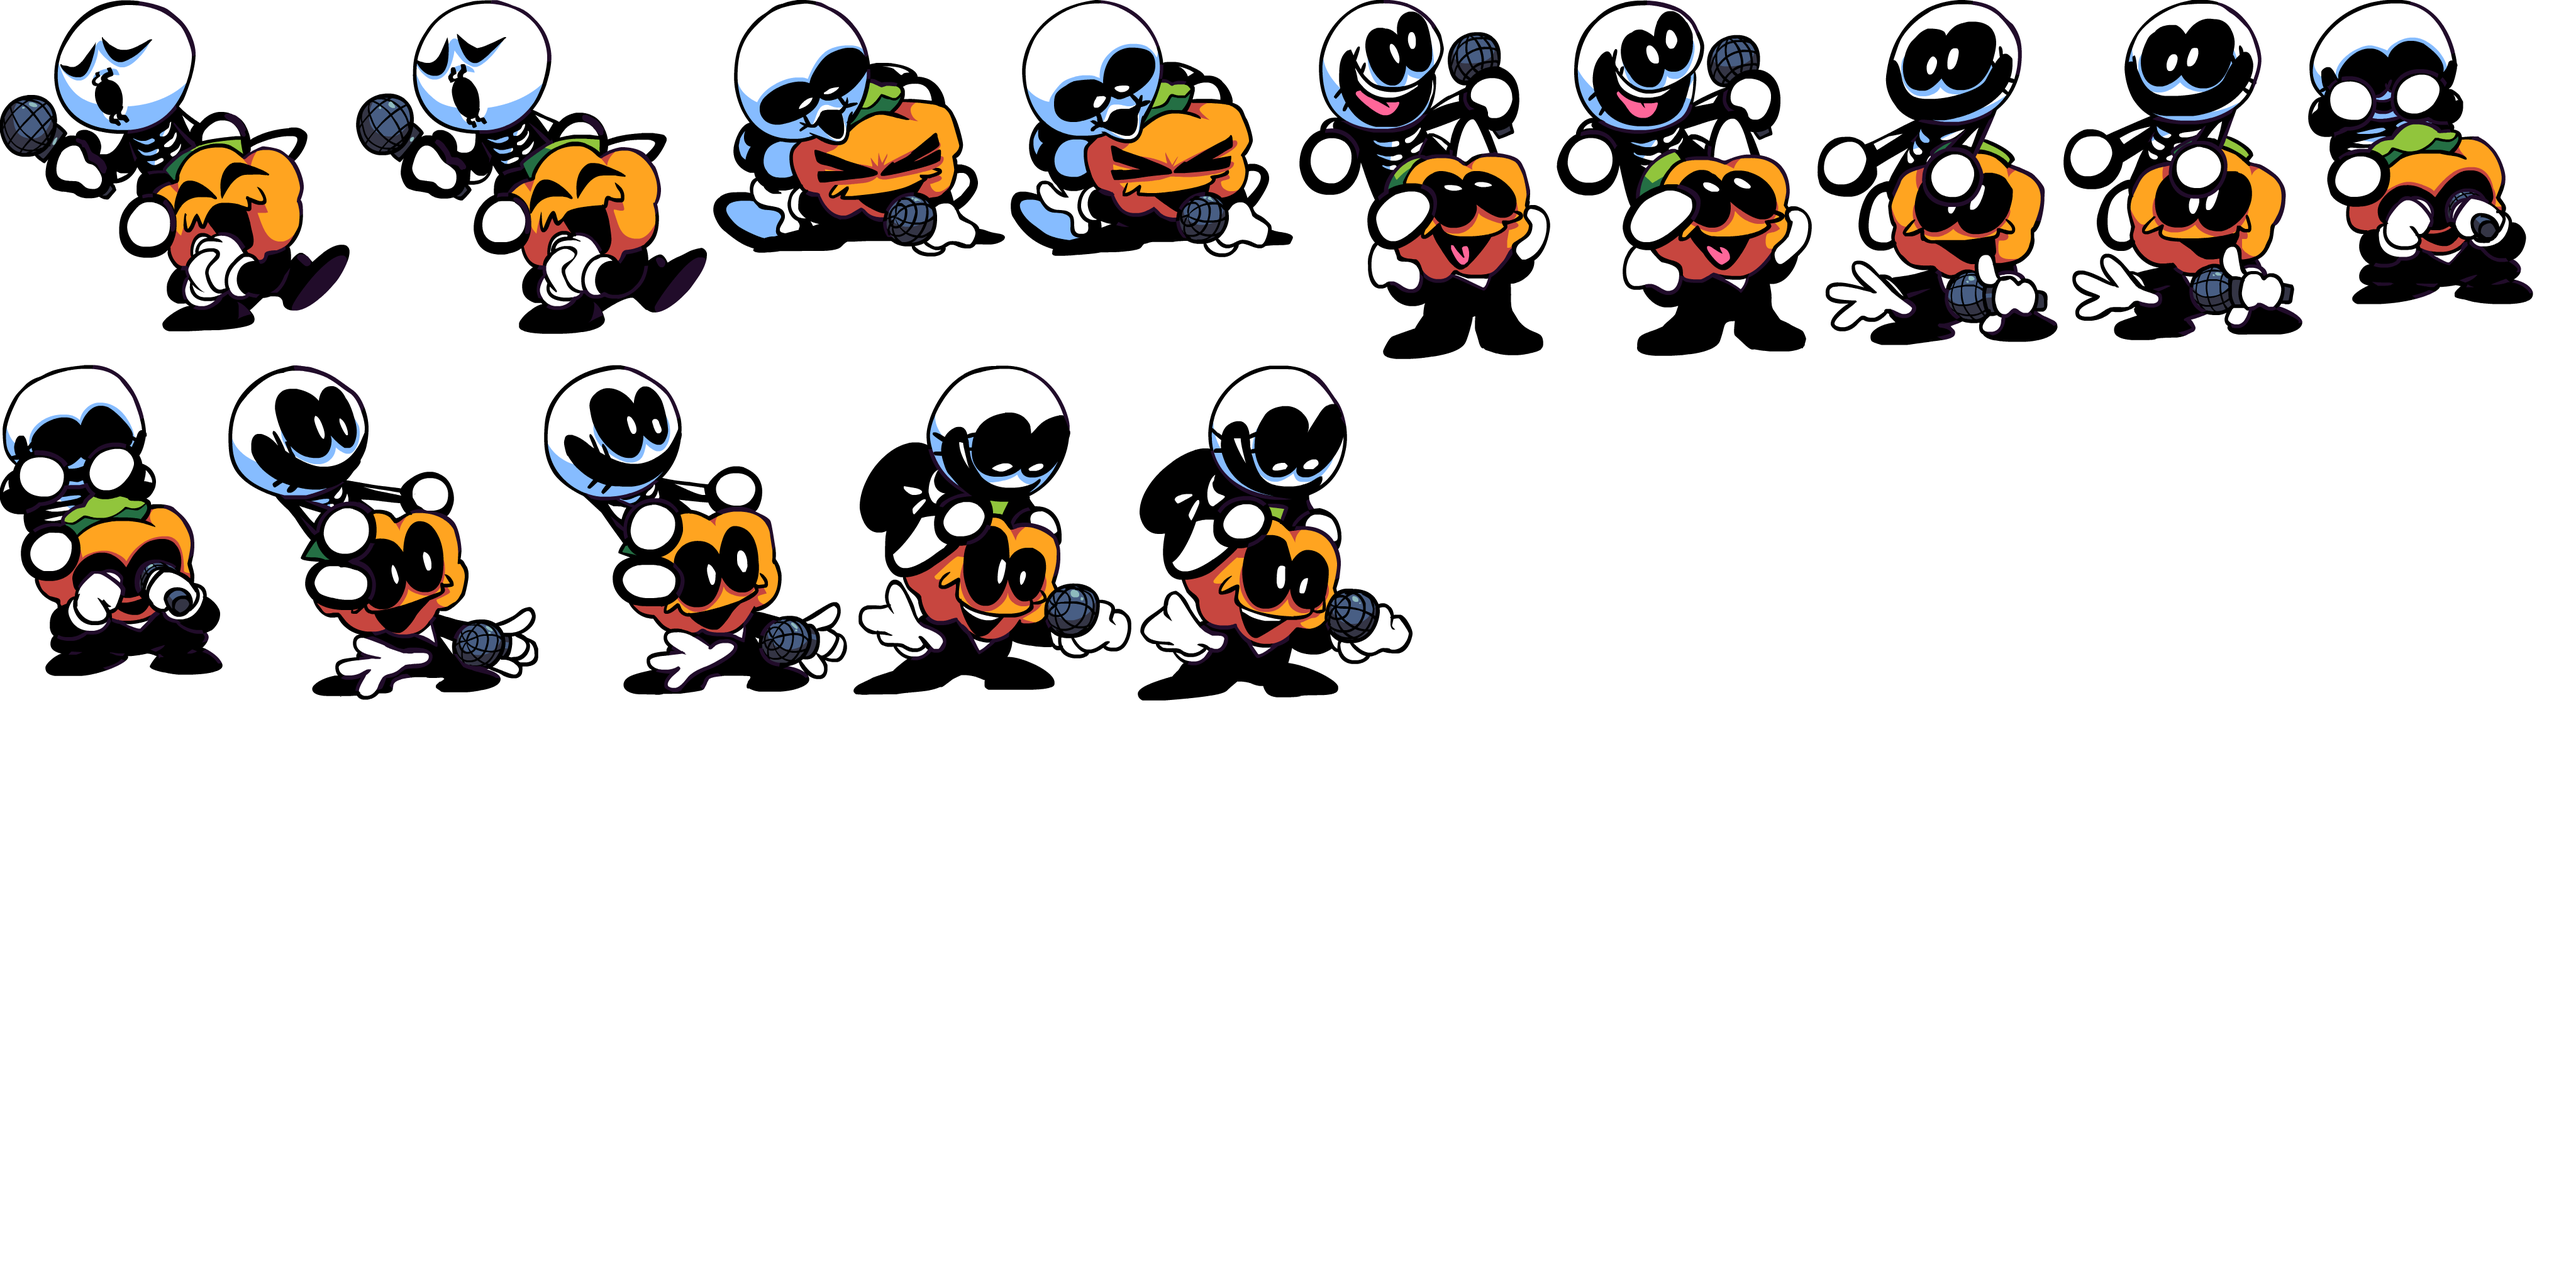
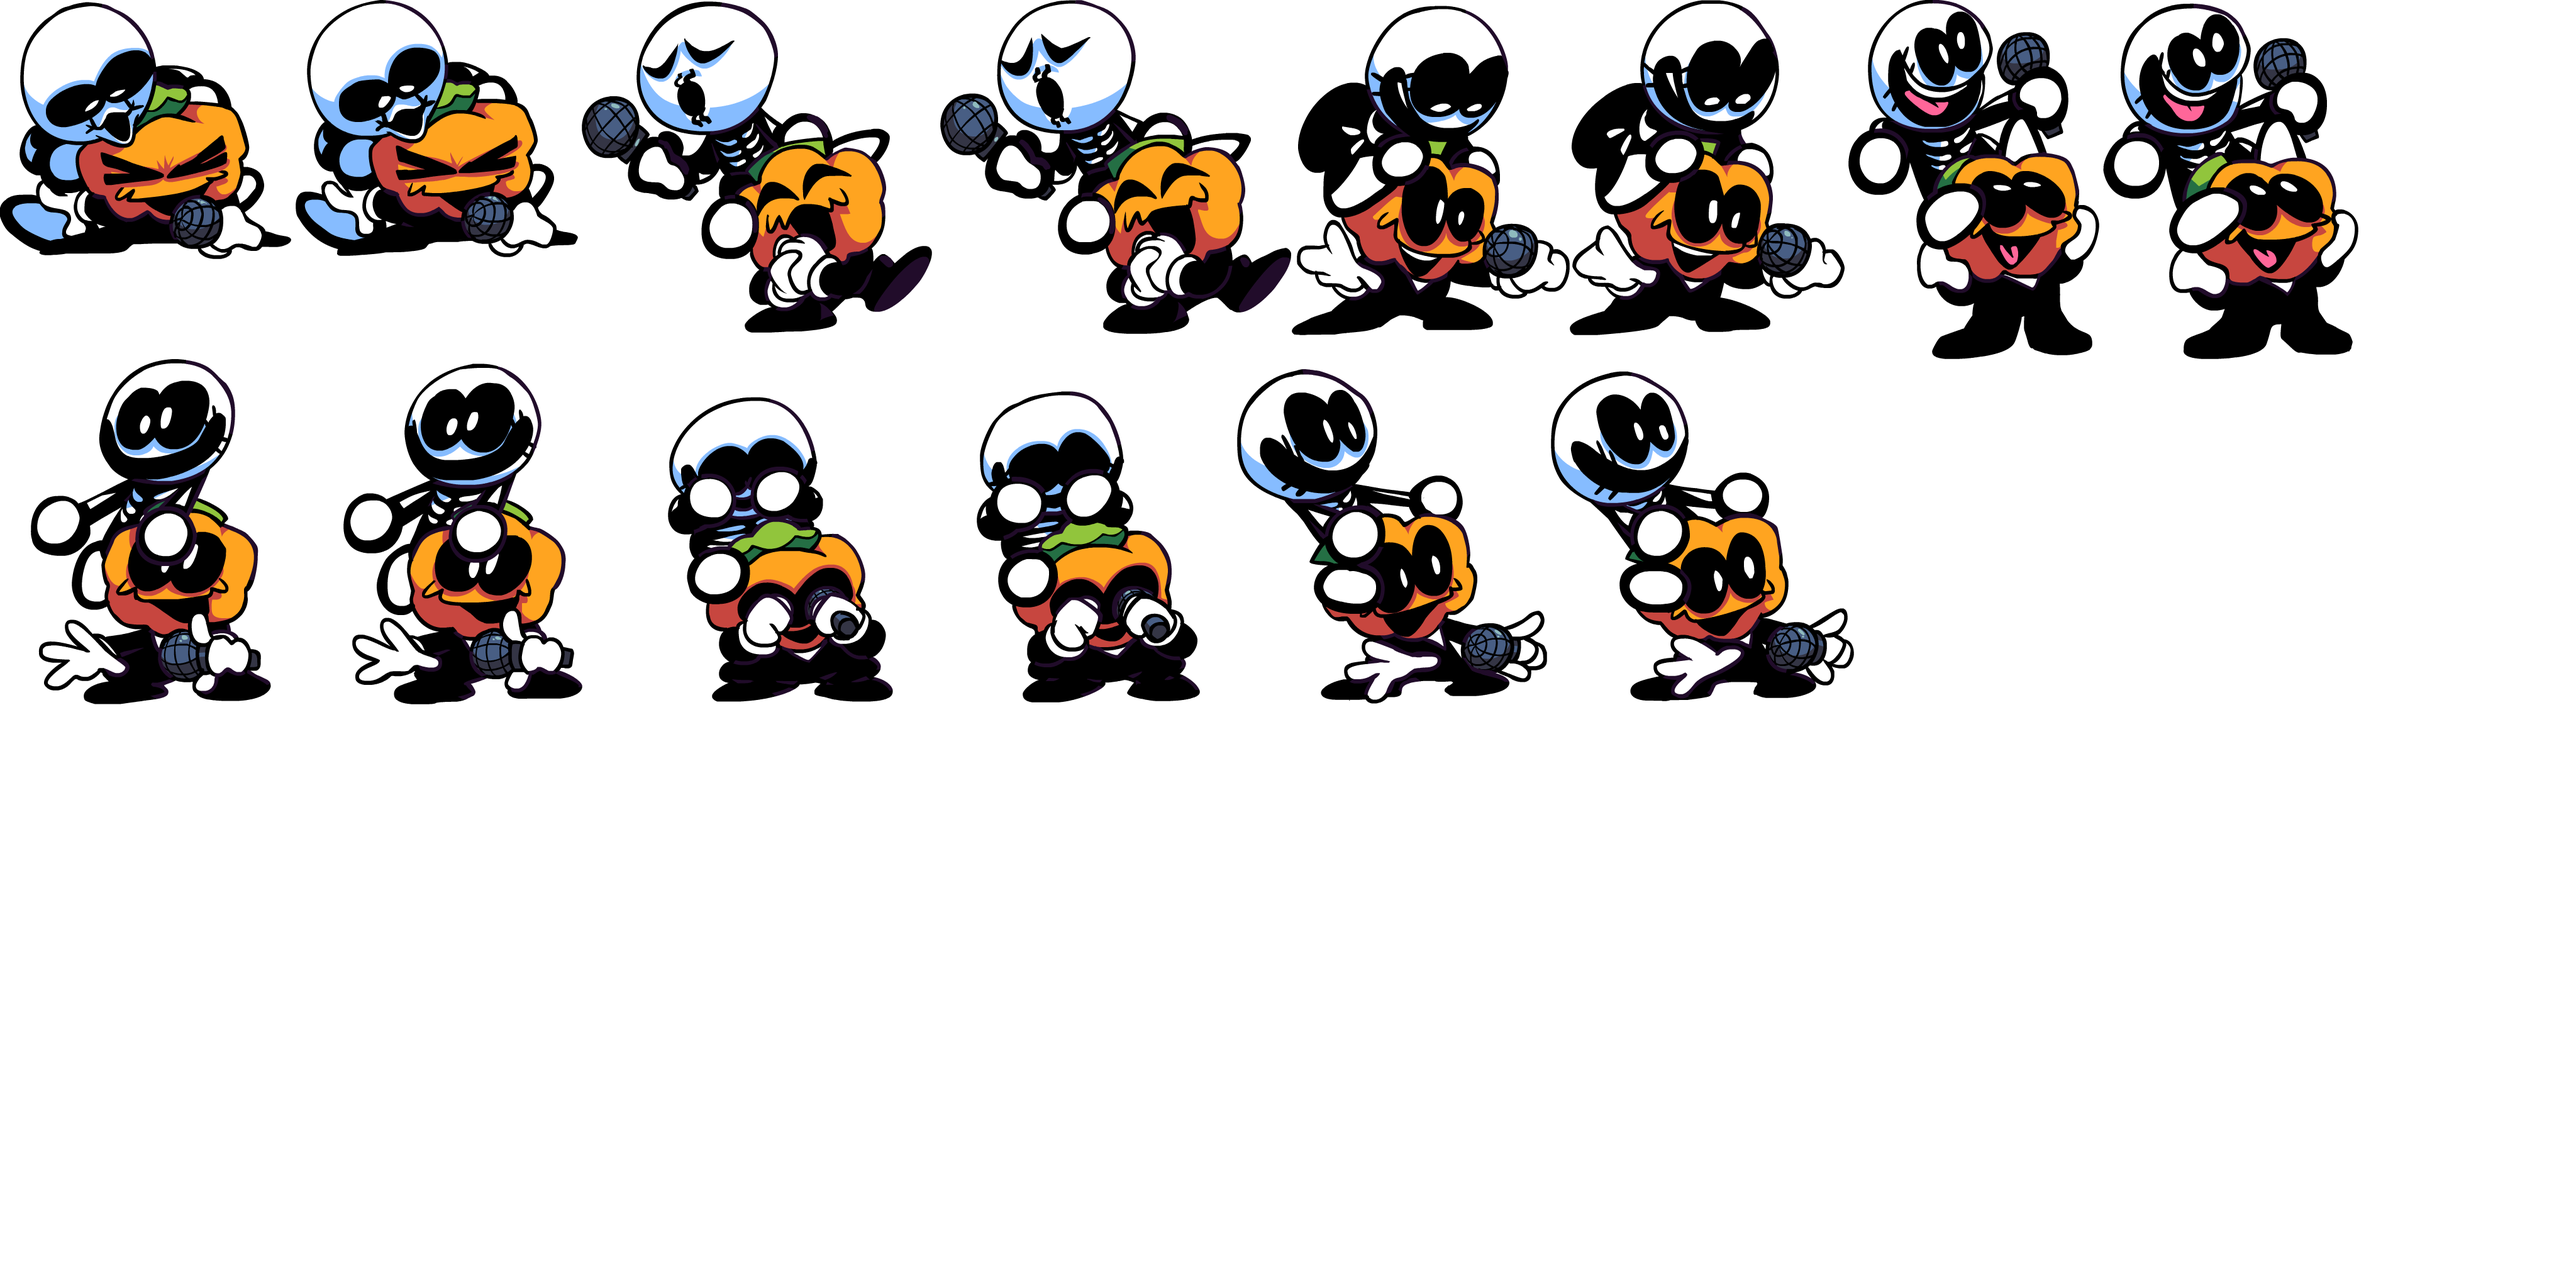
Mini Update
- Added newer spooky kids animations

Changed region(s): [[0.0, 0.0, 1.0, 0.5625]]

diff --git a/README.md b/README.md
@@ -97,3 +97,4 @@ As for Mac, 'lime test mac -debug' should work, if not the internet surely has a
 ### Additional guides
 
 - [Command line basics](https://ninjamuffin99.newgrounds.com/news/post/1090480)
+- You can remove .git and .github to allow packaging for the newest version of haxe.
